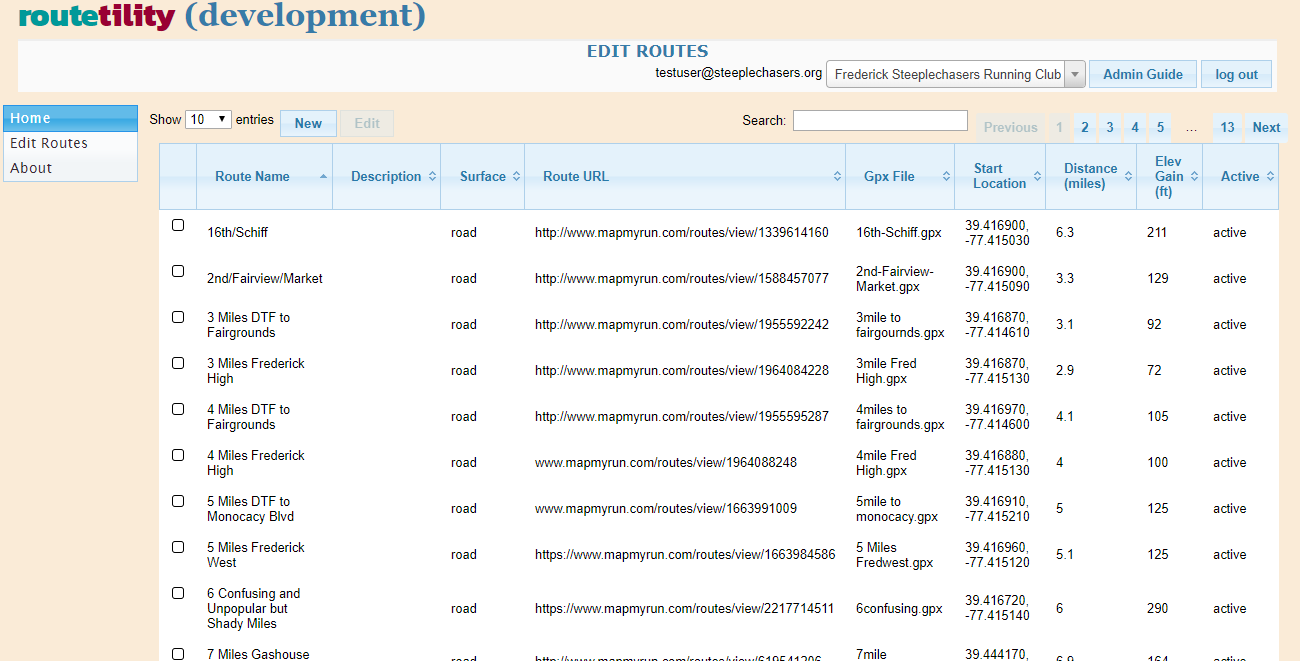
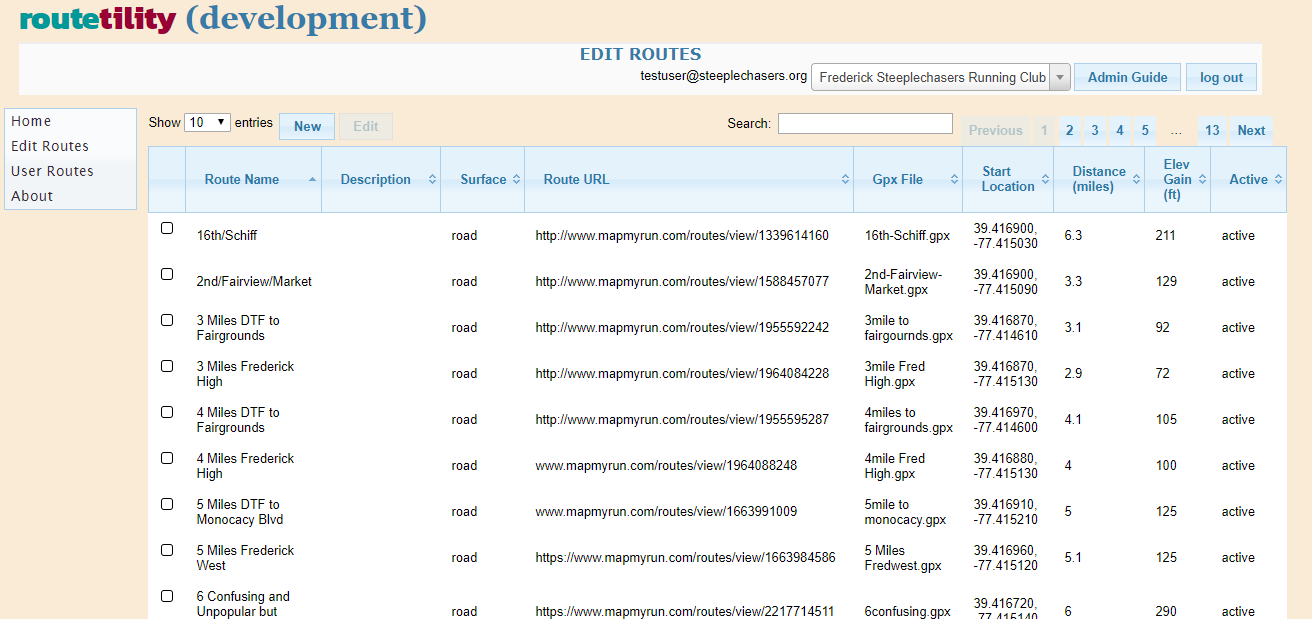
administrator's guide tweaks

diff --git a/runningroutes/nav.py b/runningroutes/nav.py
@@ -48,6 +48,7 @@ def nav_menu():
     # table is only accessible when interest is set
     if g.interest:
         navbar.items.append(View('Edit Routes', 'admin.routetable', interest=g.interest))
+        navbar.items.append(View('User Routes', 'frontend.routes', interest=g.interest))
 
     # event administrative stuff
     if current_user.has_role('event-admin') or current_user.has_role('super-admin'):
